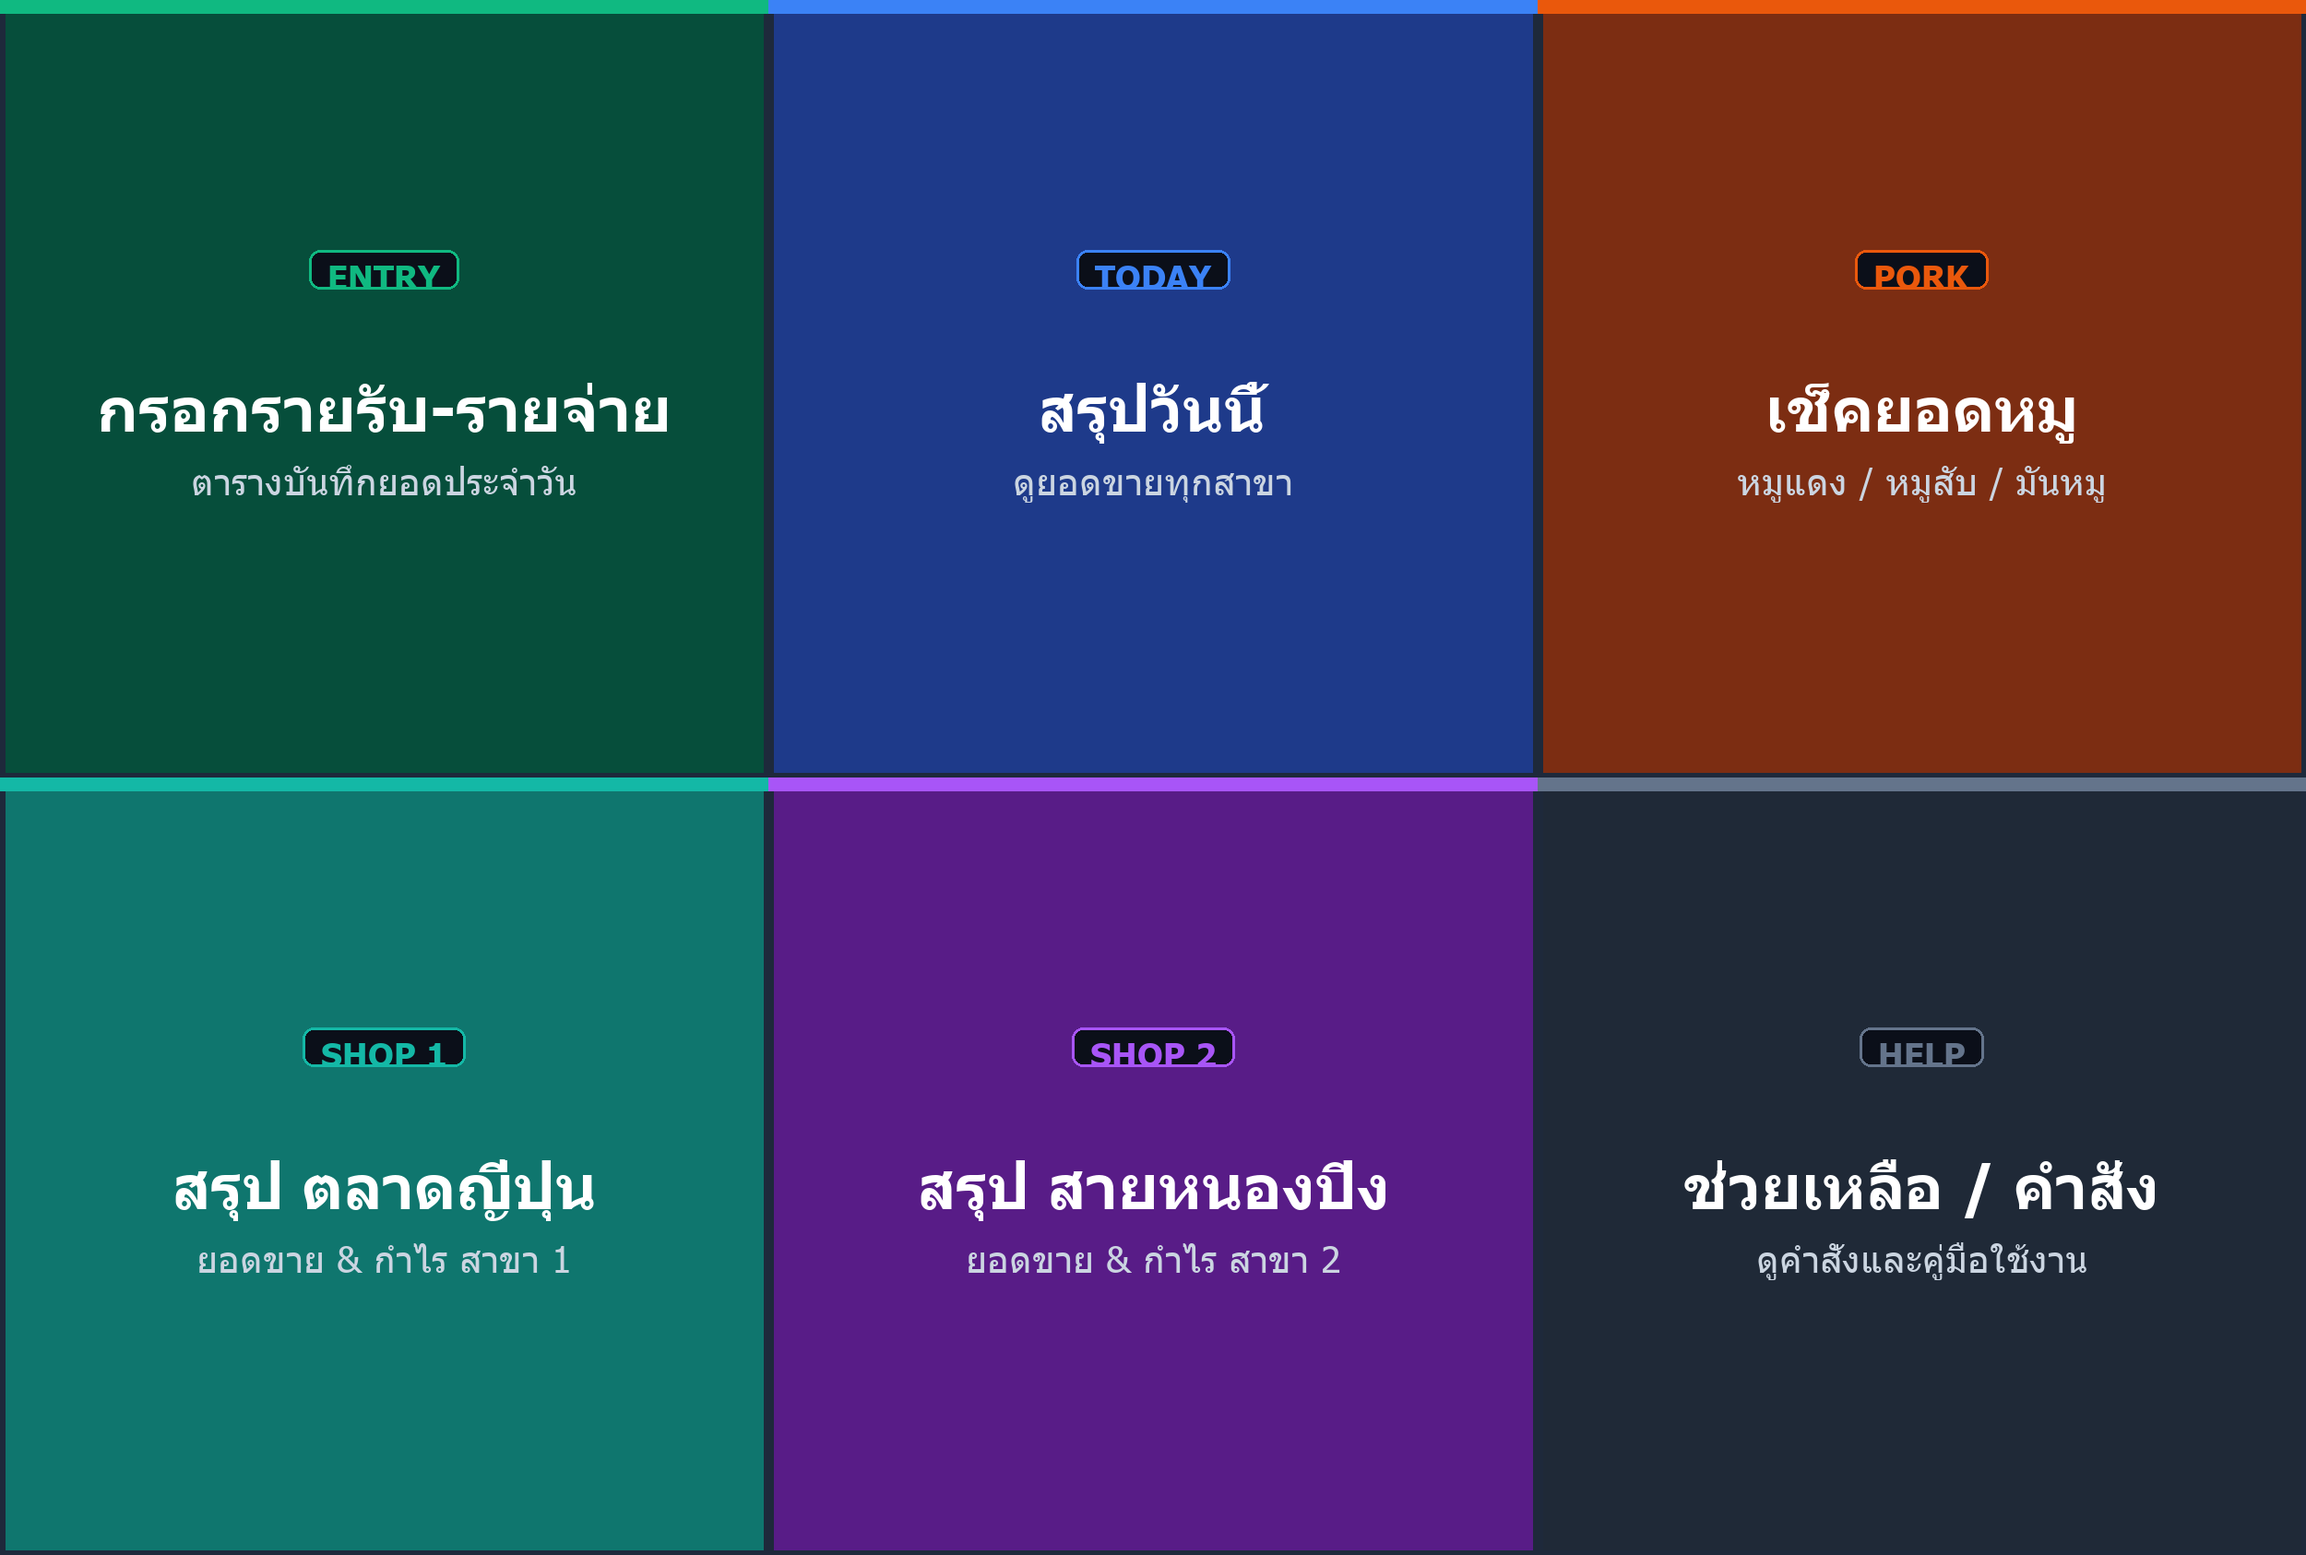
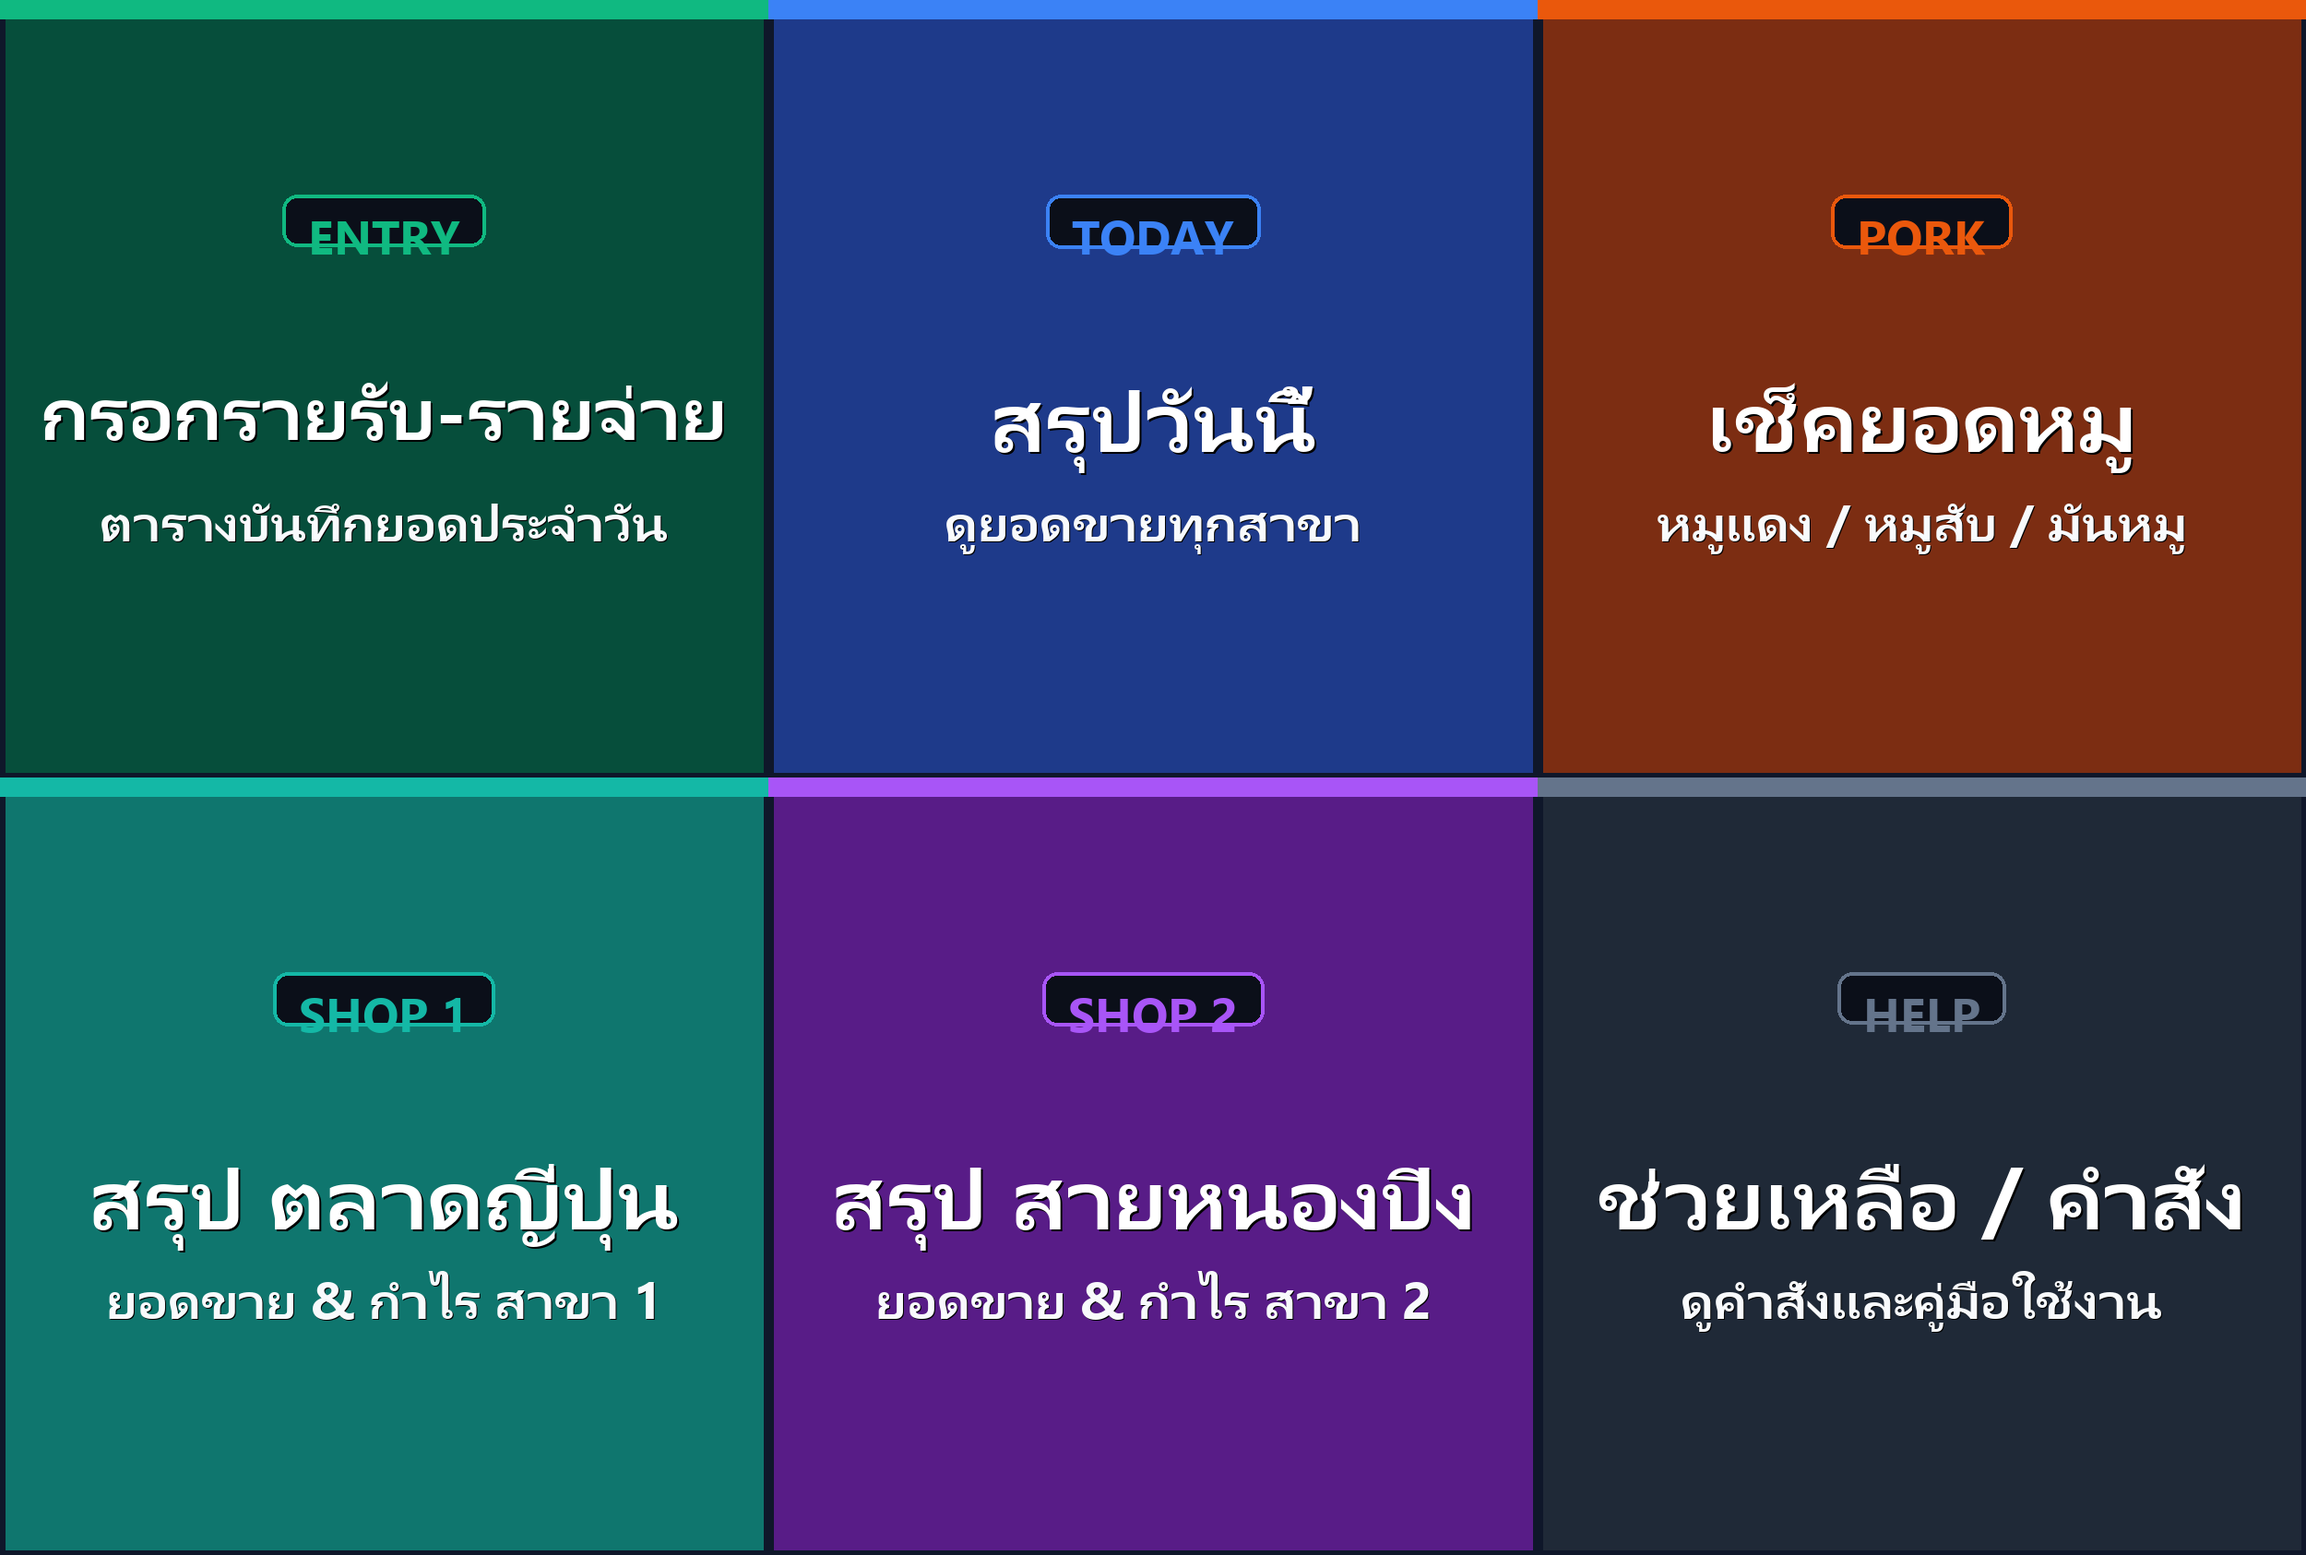
style(richmenu): enlarge titles, subtitles, and badges for mobile readability (v3)

diff --git a/src/lib/services/line-richmenu.service.ts b/src/lib/services/line-richmenu.service.ts
@@ -14,7 +14,7 @@ export function getRichMenuDefinition() {
   return {
     size: { width: 2500, height: 1686 },
     selected: true,
-    name: "ร้านครูตอม Main Menu v2",
+    name: "ร้านครูตอม Main Menu v3",
     chatBarText: "📌 เมนูร้านครูตอม",
     areas: [
       // Tile 1: 📝 กรอกรายรับ-รายจ่าย (Top Left)

diff --git a/scripts/generate-richmenu.py b/scripts/generate-richmenu.py
@@ -60,43 +60,68 @@ def generate_rich_menu_image(output_path='public/richmenu.png'):
         }
     ]
 
-    font_path_bold = 'C:/Windows/Fonts/tahomabd.ttf'
-    font_path_reg = 'C:/Windows/Fonts/tahoma.ttf'
+    # Use Leelawadee UI Bold for beautiful Thai typography, fallback to Tahoma Bold
+    font_path_bold = 'C:/Windows/Fonts/LeelaUIb.ttf'
+    if not os.path.exists(font_path_bold):
+        font_path_bold = 'C:/Windows/Fonts/tahomabd.ttf'
 
-    font_badge = ImageFont.truetype(font_path_bold, 36) if os.path.exists(font_path_bold) else ImageFont.load_default()
-    font_bold = ImageFont.truetype(font_path_bold, 66) if os.path.exists(font_path_bold) else ImageFont.load_default()
-    font_sub = ImageFont.truetype(font_path_reg, 40) if os.path.exists(font_path_reg) else ImageFont.load_default()
+    font_path_reg = 'C:/Windows/Fonts/LeelawUI.ttf'
+    if not os.path.exists(font_path_reg):
+        font_path_reg = 'C:/Windows/Fonts/tahoma.ttf'
+
+    # Enlarged badge & subtitle fonts
+    font_badge = ImageFont.truetype(font_path_bold, 52)
+    font_sub = ImageFont.truetype(font_path_bold, 56)
 
     for t in tiles:
-        # Tile background
-        draw.rectangle([t['x1'], t['y1'], t['x2'], t['y2']], fill=t['bg_grad'], outline='#1e293b', width=6)
-        # Accent top bar
-        draw.rectangle([t['x1'], t['y1'], t['x2'], t['y1'] + 14], fill=t['accent'])
-        
+        tile_w = t['x2'] - t['x1']
+        tile_h = t['y2'] - t['y1']
         cx = (t['x1'] + t['x2']) // 2
         cy = (t['y1'] + t['y2']) // 2
+
+        # Tile background
+        draw.rectangle([t['x1'], t['y1'], t['x2'], t['y2']], fill=t['bg_grad'], outline='#0f172a', width=6)
         
-        # Badge
+        # Accent top bar (thicker)
+        draw.rectangle([t['x1'], t['y1'], t['x2'], t['y1'] + 20], fill=t['accent'])
+        
+        # 1. Badge (Larger and prominent)
         badge_text = t['badge']
         bbox_b = draw.textbbox((0, 0), badge_text, font=font_badge)
         bw = bbox_b[2] - bbox_b[0]
         bh = bbox_b[3] - bbox_b[1]
-        bx1 = cx - bw // 2 - 20
-        by1 = cy - 150
-        bx2 = cx + bw // 2 + 20
-        by2 = by1 + bh + 16
-        draw.rounded_rectangle([bx1, by1, bx2, by2], radius=12, fill='#0b0f19', outline=t['accent'], width=3)
-        draw.text((cx - bw // 2, by1 + 6), badge_text, fill=t['accent'], font=font_badge)
+        bx1 = cx - bw // 2 - 28
+        by1 = cy - 210
+        bx2 = cx + bw // 2 + 28
+        by2 = by1 + bh + 20
+        draw.rounded_rectangle([bx1, by1, bx2, by2], radius=16, fill='#0b0f19', outline=t['accent'], width=4)
+        draw.text((cx - bw // 2, by1 + 8), badge_text, fill=t['accent'], font=font_badge)
 
-        # Title
-        bbox_t = draw.textbbox((0, 0), t['title'], font=font_bold)
+        # 2. Title (Dynamically maximized to be as big as possible)
+        target_size = 96
+        title_font = ImageFont.truetype(font_path_bold, target_size)
+        bbox_t = draw.textbbox((0, 0), t['title'], font=title_font)
         tw = bbox_t[2] - bbox_t[0]
-        draw.text((cx - tw // 2, cy - 20), t['title'], fill='#ffffff', font=font_bold)
+
+        # Auto shrink slightly if title is too wide for the tile margin
+        while tw > (tile_w - 70) and target_size > 76:
+            target_size -= 2
+            title_font = ImageFont.truetype(font_path_bold, target_size)
+            bbox_t = draw.textbbox((0, 0), t['title'], font=title_font)
+            tw = bbox_t[2] - bbox_t[0]
+
+        th = bbox_t[3] - bbox_t[1]
+        title_y = cy - 35
+        # Draw subtle drop-shadow for crisp readability
+        draw.text((cx - tw // 2 + 2, title_y + 2), t['title'], fill='#000000', font=title_font)
+        draw.text((cx - tw // 2, title_y), t['title'], fill='#FFFFFF', font=title_font)
         
-        # Subtitle
+        # 3. Subtitle (Larger, high-contrast off-white)
         bbox_s = draw.textbbox((0, 0), t['sub'], font=font_sub)
         sw = bbox_s[2] - bbox_s[0]
-        draw.text((cx - sw // 2, cy + 75), t['sub'], fill='#cbd5e1', font=font_sub)
+        sub_y = cy + 105
+        draw.text((cx - sw // 2 + 1, sub_y + 1), t['sub'], fill='#000000', font=font_sub)
+        draw.text((cx - sw // 2, sub_y), t['sub'], fill='#F8FAFC', font=font_sub)
 
     os.makedirs(os.path.dirname(output_path), exist_ok=True)
     img.save(output_path, 'PNG', optimize=True)
